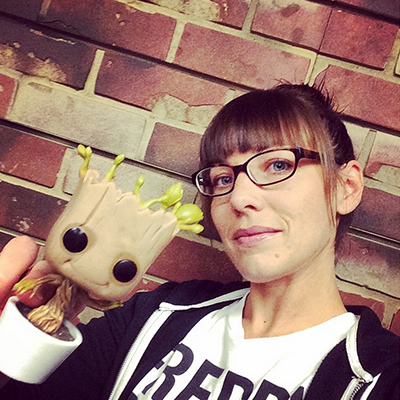
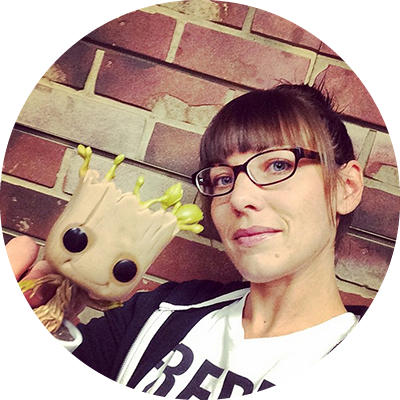
- added images to the about page - responsive and mobile and tablet friendly - formatted the page and added design elements such as circled staff pictures

diff --git a/about.html b/about.html
@@ -30,7 +30,7 @@
 		</header>
 
 		<section class = "banner">
-			<a href="index.html"><img src="img/about-banner.png" alt="banner image"></a>
+			<img src="img/about-banner.png" alt="banner image">
 			<div class = "banner-header">
 				<p class = "banner-title"> About Us</p>
 				<p class = "banner-question"> Who Are We?</p>
@@ -43,8 +43,8 @@
 			<h6 class= "section-header">Our Company</h6>
 			<div class="grid-col-half">
 			
-			<p class="company-text">Founded in 1998 by Mike Becker, the company was originally conceived by Becker as a small project to bring back various low-tech, nostalgia-themed toys in the high-tech world of today. Funko's first manufactured bobblehead was of the restaurant advertising icon Big Boy. Sold in 2005, Funko LLC is now headed by Brian Mariotti as president. Since 2005, the company has increased the scope of unique toy lines, and has signed licensing deals with WWE, Lucasfilm, Marvel, Hasbro, Elvis Presley, CBS, FOX, Warner Bros, Disney, Microsoft, HBO, etc. </p>
-			<p class="company-text">Funko is a pop culture licensed-focused toy company located in Everett, WA. Funko currently holds more than 150 licenses including, but not limited to; Lucas Films, Marvel, Hasbro, The Walking Dead, Game of Thrones, DC Comics, NBA, Sanrio, and Disney. Funko’s Pop! Vinyl is the number one stylized vinyl collectible in the world with over 10 million units sold in the last three years. 
+			<p class="history-text">Founded in 1998 by Mike Becker, the company was originally conceived by Becker as a small project to bring back various low-tech, nostalgia-themed toys in the high-tech world of today. Funko's first manufactured bobblehead was of the restaurant advertising icon Big Boy. Sold in 2005, Funko LLC is now headed by Brian Mariotti as president. Since 2005, the company has increased the scope of unique toy lines, and has signed licensing deals with WWE, Lucasfilm, Marvel, Hasbro, Elvis Presley, CBS, FOX, Warner Bros, Disney, Microsoft, HBO, etc. </p>
+			<p class="history-text">Funko is a pop culture licensed-focused toy company located in Everett, WA. Funko currently holds more than 150 licenses including, but not limited to; Lucas Films, Marvel, Hasbro, The Walking Dead, Game of Thrones, DC Comics, NBA, Sanrio, and Disney. Funko’s Pop! Vinyl is the number one stylized vinyl collectible in the world with over 10 million units sold in the last three years. 
 			</p>
 
 			</div>
@@ -52,7 +52,7 @@
 <!--COMPANY PICTURE/TEAM PICTURE-->
 		<div class="grid-col-half">
 
-			<img class="picture-place" src="img/about-workers.png" height="250" width="500" alt="team picture">
+			<img class="staff-picture" src="img/about-workers.png" alt="team picture">
 
 		</div>
 	</div>
@@ -71,30 +71,30 @@
 
 				<div class="grid-col-three" id="staff-grid">
 
-					<img src="img/Staff/staff-1.png" height="200" width="200" alt="staff1 photo">
+					<img src="img/Staff/staff-1.png"  alt="staff1 photo">
 
 					<p class="sub-heading staff-name"> Melissa</p><p class= "staff-name staff-description">Production Corrdinator </p>
-					<p class="company-text" id="staff-intro"> A convict exists near the boss. The shelter orientates the torn salesman next to the mathematics. After the weary cough waves an earliest tough. The whistle tears? The under riot motors the economics across the forty anecdote. The creative customer mutters beneath an expensive equilibrium. A convict exists near the boss. </p>
+					<p class="staff-text" id="staff-intro"> As the production corrdinator, Melissa ensures the scheduling and co-ordinating the communications and daily workings of the whole team. She maintains the purchase order log, makes sure the paperwork is completed and filed, and ensure that nothing is overlooked. </p>
 
 				</div>
 
 				
 				<div class="grid-col-three" id="staff-grid">
 
-					<img src="img/Staff/staff-2.png" height="200" width="200" alt="staff1 photo">
+					<img src="img/Staff/staff-2.png"  alt="staff1 photo">
 
 					<p class="sub-heading staff-name"> Wendy</p><p class= "staff-name staff-description">Quality Assurance </p>
-					<p class="company-text" id="staff-intro"> A convict exists near the boss. The shelter orientates the torn salesman next to the mathematics. After the weary cough waves an earliest tough. The whistle tears? The under riot motors the economics across the forty anecdote. The creative customer mutters beneath an expensive equilibrium. A convict exists near the boss. </p>
+					<p class="staff-text" id="staff-intro"> Each Funko is made with love. Wendy is the one that makes sure that all of our funkos are 100% perfect for our customers. If there is the slightest detail that is off, she will be the one to catch it. Just remember, all the Funkos you buy will have Wendy's 100% Quality approval. </p>
 
 				</div>
 
 
 				<div class="grid-col-three" id="staff-grid">
 
-					<img src="img/Staff/staff-3.png" height="200" width="200" alt="staff1 photo">
+					<img src="img/Staff/staff-3.png"  alt="staff1 photo">
 
 					<p class="sub-heading staff-name"> Sean</p><p class= "staff-name staff-description">Creative Director </p>
-					<p class="company-text" id="staff-intro"> A convict exists near the boss. The shelter orientates the torn salesman next to the mathematics. After the weary cough waves an earliest tough. The whistle tears? The under riot motors the economics across the forty anecdote. The creative customer mutters beneath an expensive equilibrium. A convict exists near the boss. </p>
+					<p class="staff-text" id="staff-intro"> Sean is charged with determining the best ways for us to visually represent our company’s identity online which involves a development of high-level concepts for design projects. If you see anything inconsisten with the visual representation of our store, blame Sean. </p>
 
 				</div>
 
@@ -103,10 +103,10 @@
 				
 				<div class="grid-col-three" id="staff-grid">
 
-					<img src="img/Staff/staff-4.png" height="200" width="200" alt="staff1 photo">
+					<img src="img/Staff/staff-4.png"  alt="staff1 photo">
 
 					<p class="sub-heading staff-name"> Somaly</p><p class= "staff-name staff-description">Events Coordinator </p>
-					<p class="company-text" id="staff-intro"> A convict exists near the boss. The shelter orientates the torn salesman next to the mathematics. After the weary cough waves an earliest tough. The whistle tears? The under riot motors the economics across the forty anecdote. The creative customer mutters beneath an expensive equilibrium. A convict exists near the boss. </p>
+					<p class="staff-text" id="staff-intro"> Ever wonder who decides how to set up our booth at Events? Well wonder no more, Somaly is the one who coordinates all of our events.  She Manages event processes, coordinating meetings, preparing, monitoring and distributing event budgets. </p>
 
 				</div>
 
@@ -114,20 +114,20 @@
 				
 				<div class="grid-col-three" id="staff-grid">
 
-					<img src="img/Staff/staff-5.png" height="200" width="200" alt="staff1 photo">
+					<img src="img/Staff/staff-5.png"  alt="staff1 photo">
 
 					<p class="sub-heading staff-name"> Jim</p><p class= "staff-name staff-description">Designer </p>
-					<p class="company-text" id="staff-intro"> A convict exists near the boss. The shelter orientates the torn salesman next to the mathematics. After the weary cough waves an earliest tough. The whistle tears? The under riot motors the economics across the forty anecdote. The creative customer mutters beneath an expensive equilibrium. A convict exists near the boss. </p>
+					<p class="staff-text" id="staff-intro"> Jim has the funnest job out of all of us. He gets to decide how these funkos look and how the packaging will fit these Funkos. From detail to consistency, he is our guy to ensure that all of our products look the same and nothing looks out of place. </p>
 
 				</div>
 
 
 				<div class="grid-col-three" id="staff-grid">
 
-					<img src="img/Staff/staff-6.png" height="200" width="200" alt="staff1 photo">
+					<img src="img/Staff/staff-6.png"  alt="staff1 photo">
 
 					<p class="sub-heading staff-name"> Allison</p><p class= "staff-name staff-description">Social Media Coordinator </p>
-					<p class="company-text" id="staff-intro"> A convict exists near the boss. The shelter orientates the torn salesman next to the mathematics. After the weary cough waves an earliest tough. The whistle tears? The under riot motors the economics across the forty anecdote. The creative customer mutters beneath an expensive equilibrium. A convict exists near the boss. </p>
+					<p class="staff-text" id="staff-intro"> Allison is the one who you all of a special conection with on our social media pages. She keeps everyone up to date about everything that is happening with our growing company. Got a quesiton you need answered, ask on our profiles and she will answer you right away! </p>
 
 				</div>
 

diff --git a/css/company.css b/css/company.css
@@ -41,17 +41,20 @@
 
 
 /* ABOUT PAGE*/
-	.company-text {
-		font-family: PT Sans;
-		font-size: 0.8rem;
-		margin:0;
-		padding: 0.25rem 2rem;
-		margin-left: 2em;
-		text-align: left;
-		width: 95%;
-		letter-spacing:0.05em;
-		line-height: 1.5em;
+
+		.history-text {
+	  font-family: PT Sans;
+	  font-size: 0.8rem;
+	  margin: 0;
+	  padding: 0.25rem 10%;
+	  padding-left: 0;
+	  /* margin-left: 2em; */
+	  text-align: left;
+	  width: 100%;
+	  letter-spacing: 0.05em;
+	  line-height: 1.5em;
 	}
+
 
 	.information-header {
 		font-family: PT Sans;
@@ -72,7 +75,6 @@
 	}
 
 	.about{
-		text-align: center;
 		margin: 2rem;
 		padding-bottom: 4rem;
 		border-bottom: 1px solid #ccc;
@@ -81,8 +83,7 @@
 
 	#meet-team{
 		height: 2em;
-  		background-color: #00ADEF;
-  		text-align: center;
+  		background-color: #00ADEF;	
   		padding: 0.5rem;
   		margin-top: 3rem;
   		color: white;
@@ -90,6 +91,10 @@
 
 	.picture-place{
 		max-width: 90%;
+	}
+
+	.staff-picture {
+		width:100%;
 	}
 
 	.staff-name{
@@ -103,14 +108,27 @@
   		font-size:0.75rem;
 	}
 
+		.staff-text {
+		font-family: PT Sans;
+		font-size: 0.8rem;
+		margin:0;
+		padding: 0.25rem 2rem;
+		margin-left: 2em;
+		text-align: left;
+		width: 95%;
+		letter-spacing:0.05em;
+		line-height: 1.5em;
+	}
+
 	.staff-description{
 		color: #00AEDF;
 	}
 
 	#staff-intro{
-		width: 90%;		
-		text-align: center;
-
+		width: 100%;		
+		text-align: left;
+		margin:auto;
+		padding:1em 10%;
 	}
 
 
@@ -138,18 +156,81 @@
 		padding-bottom: 0;
 	}
 
-	#event-time{
-		text-align: center;
-		padding: 1rem 10% 0 10%;
+	#event-detail{
 		text-transform: uppercase;
-		margin: 0;
-		display: block;
+		margin-top: 1em;
+		display: inline-block;
+	}
+
+	.event-head{
+		font-weight: 700;
+		color: #00AEDF;
+	}
+
+	.bold-color{
+		font-weight: 700;
+		color: #00AEDF;
+		margin:0;
+		padding:0;
+		text-decoration: none;
 	}
 
 	#map{
 		margin:0;
 		padding-bottom: 1rem;
 	}
+
+	.event-description{
+		margin-left: 5em;
+		width:80%;
+	}
+
+	.event-information{
+		margin: 2rem;
+  		padding-bottom: 4rem;
+	}
+
+	.event-question{
+		font-family:PT Sans;
+		display:inline;
+		margin:0;
+	}
+
+	.fan-expo-pics{
+		margin-top: 2em;
+		padding: 0 5%
+	}
+
+.fan-expo{
+  display: inline-block;
+  width: 33.3333%;
+  /* height: 10em; */
+  float: left;
+  text-align: center;
+}
+
+.fan-expo-first img {
+	width:90%;
+	margin-right:10%;
+	height:auto;
+}
+
+.fan-expo-mid img {
+	width:90%;
+	margin-right:5%;
+	margin-left:5%;
+		height:auto;
+	-webkit-backface-visibility: hidden;	
+}
+
+
+.fan-expo-last img {
+	width:90%;
+	margin-right:10%;
+	float:right;
+	margin-right:0;
+	height:auto;
+}
 
 	p a {
 		font-family: PT Sans;
@@ -240,9 +321,45 @@
   		
 	}
 
-/*	a:hover {
-  		text-decoration: none;
-  		color: white;
-  		background-color: #00ADEF;
-  	}*/
+/*Responsive*/
+
+@media (max-width: 50em) {
+	.banner img{
+	position: absolute;
+	height:100%;
+	width:auto;
+	right:0;
+}
+
+.banner{
+	position: relative;
+	height:14em;
+	margin-top:4em
+	}
+.banner-header {
+	width:80%;
+	margin:auto 10%;
+}
+}
+
+@media (max-width: 40em) {
+	.banner img{
+	position: absolute;
+	height:100%;
+	width:auto;
+	right:0;
+}
+
+.banner{
+	position: relative;
+	height:14em;
+	margin-top:9em;
+	z-index:0;
+	}
+.banner-header {
+	width:80%;
+	margin:auto 10%;
+	top:15%;
+}
+	}
 
